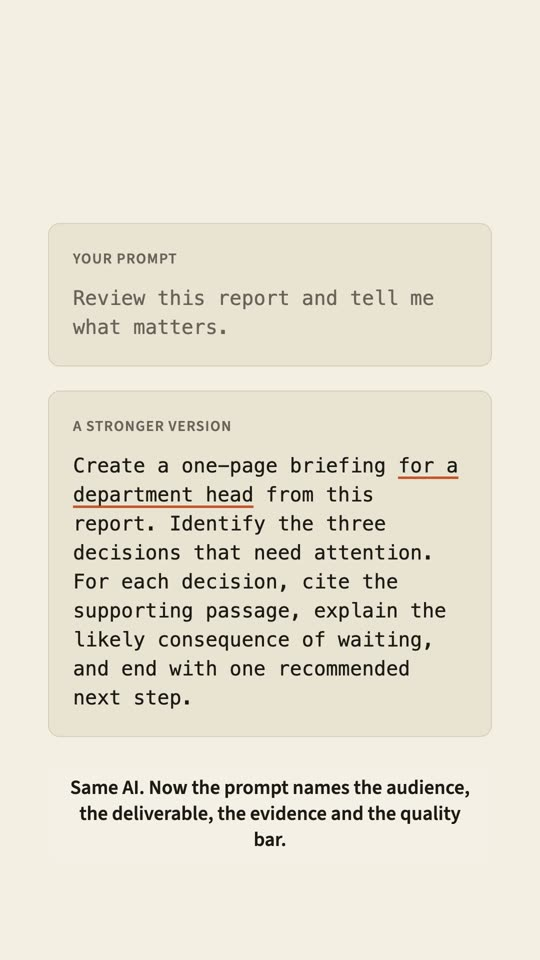
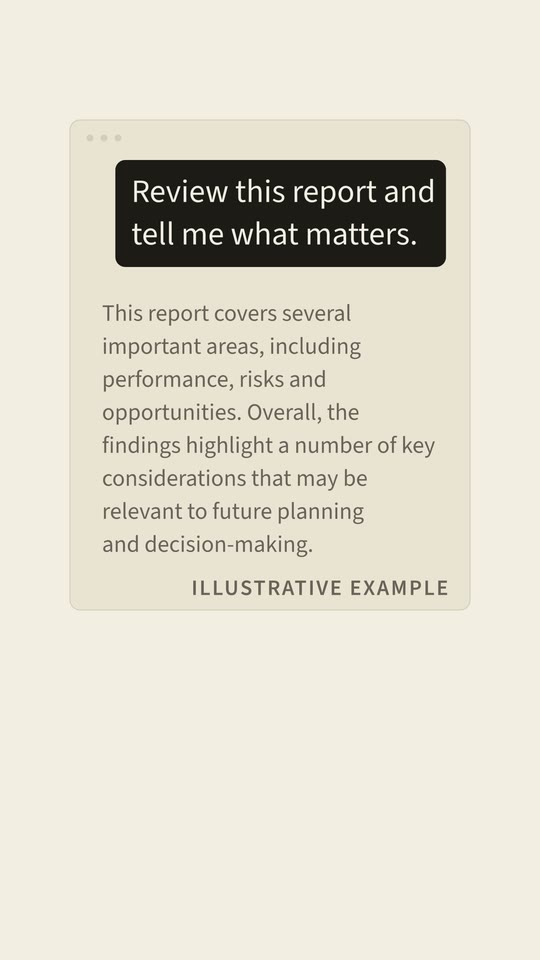
Link the README video to the current Short
The previous Short is no longer on YouTube.

Changed region(s): [[0.1185, 0.125, 0.8296, 0.75], [0.1185, 0.8125, 0.8593, 0.9062], [0.7111, 0.4375, 0.8593, 0.5]]

diff --git a/README.md b/README.md
@@ -3,7 +3,7 @@
 <p align="center"><b>An open source prompting coach for Claude Code and Codex, built around your own work.</b><br>
 <a href="https://entuvo.github.io/prompting-wizard/">Website</a> · <a href="#start">Start</a> · <a href="COACHING.md">Coaching</a> · <a href="https://github.com/Entuvo/prompting-wizard/issues">Issues</a></p>
 
-<p align="center"><a href="https://youtube.com/shorts/4eeRSs2Gi9s"><img src="docs/assets/video-poster.jpg" alt="Watch the 25-second Prompting Wizard video on YouTube" width="220"></a></p>
+<p align="center"><a href="https://youtube.com/shorts/s2WarFaRY2Q"><img src="docs/assets/video-poster.jpg" alt="Watch the Prompting Wizard video on YouTube" width="220"></a></p>
 
 ## The same AI. Clearer direction.
 
